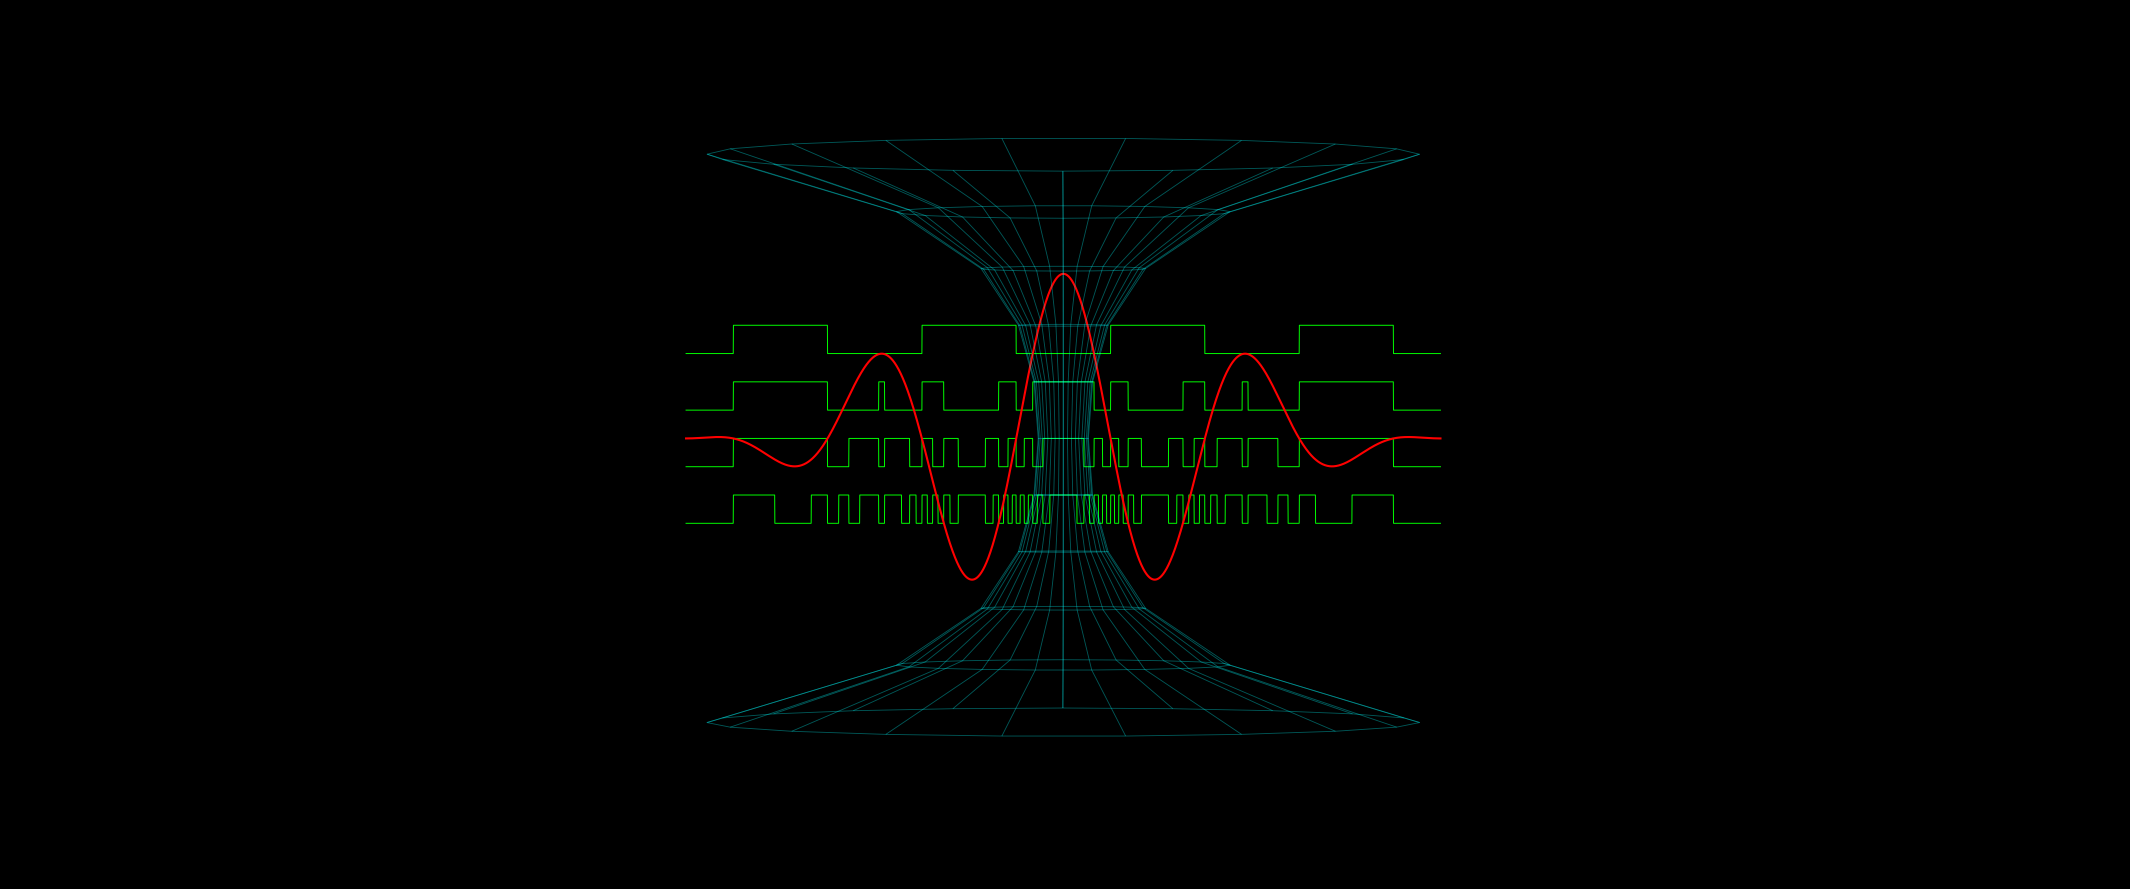
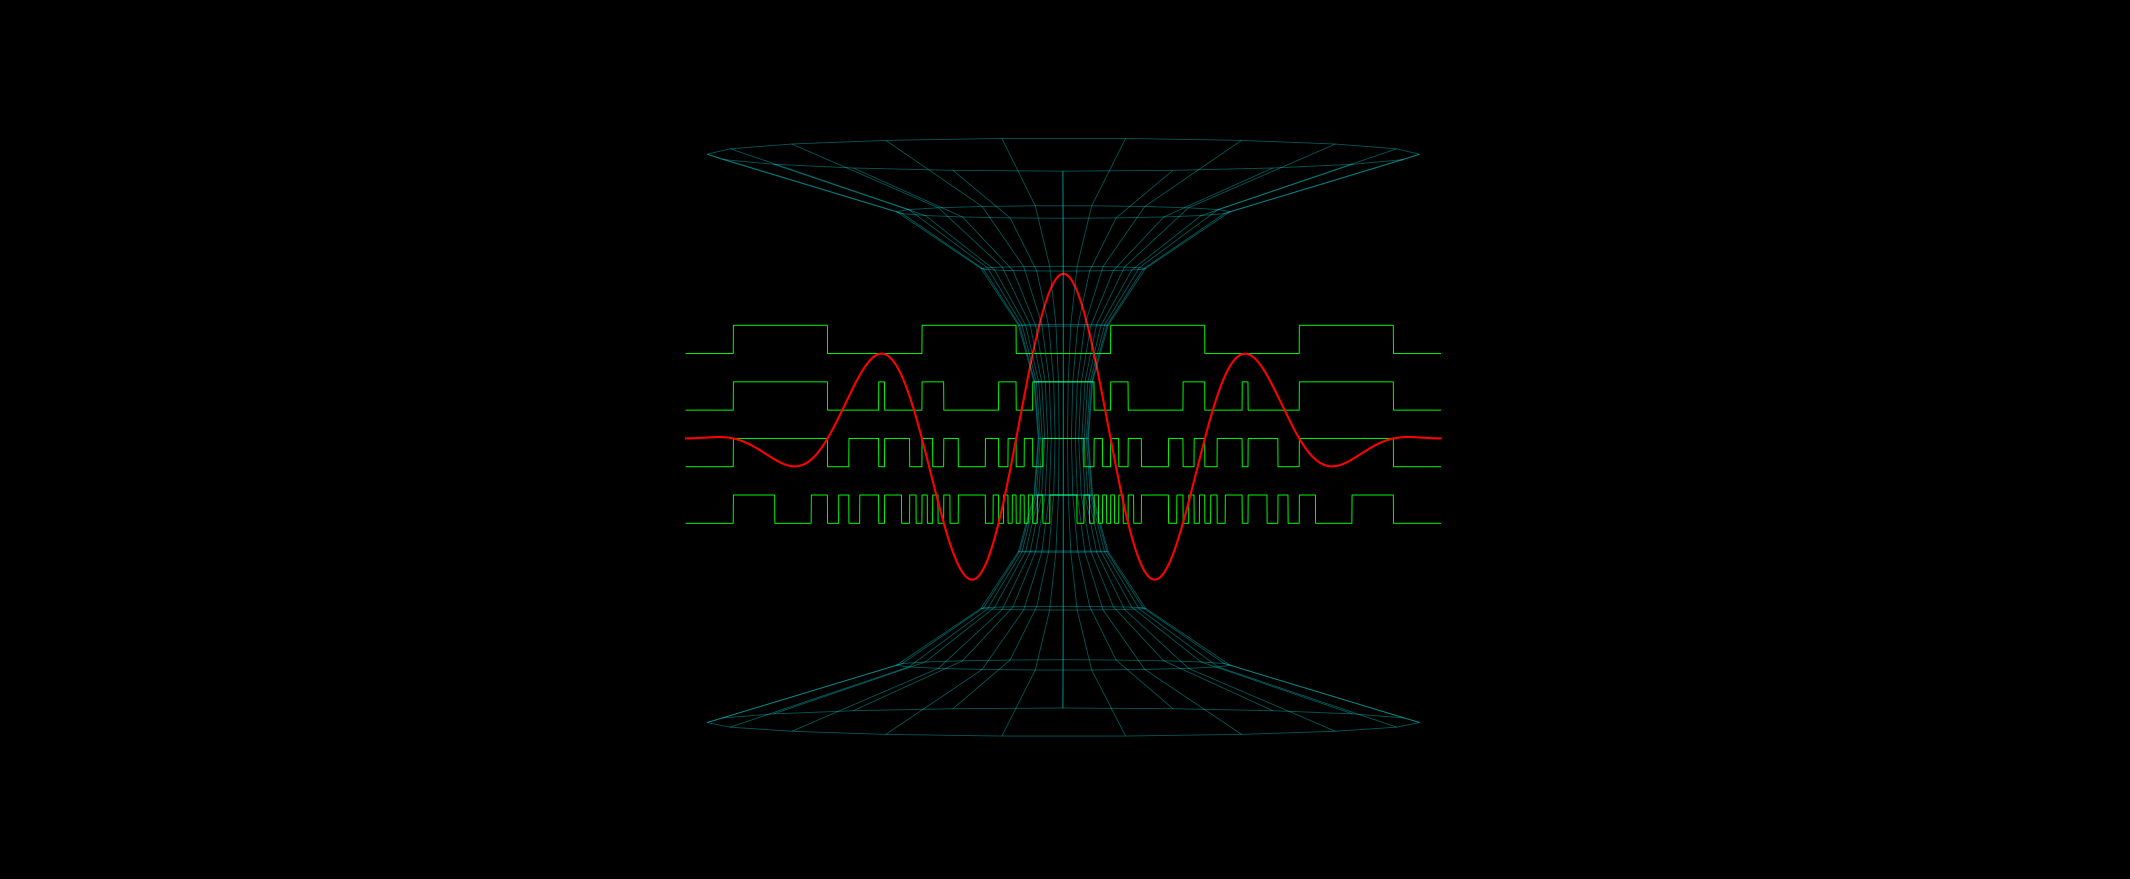
which is good main pic?

diff --git a/about.html b/about.html
@@ -2,7 +2,7 @@
 layout: page
 title: Signal Processing
 description: This is what I do.
-background: '/img/nextpnr.png'
+background: '/img/nextpnr_high.png'
 ---
 
 <p>Lorem ipsum dolor sit amet, consectetur adipisicing elit. Sed quisquam ut perspiciatis, repudiandae nulla animi iste vel, praesentium repellendus molestias aliquid consequatur, earum rem qui error voluptates eius enim consequuntur!</p>
